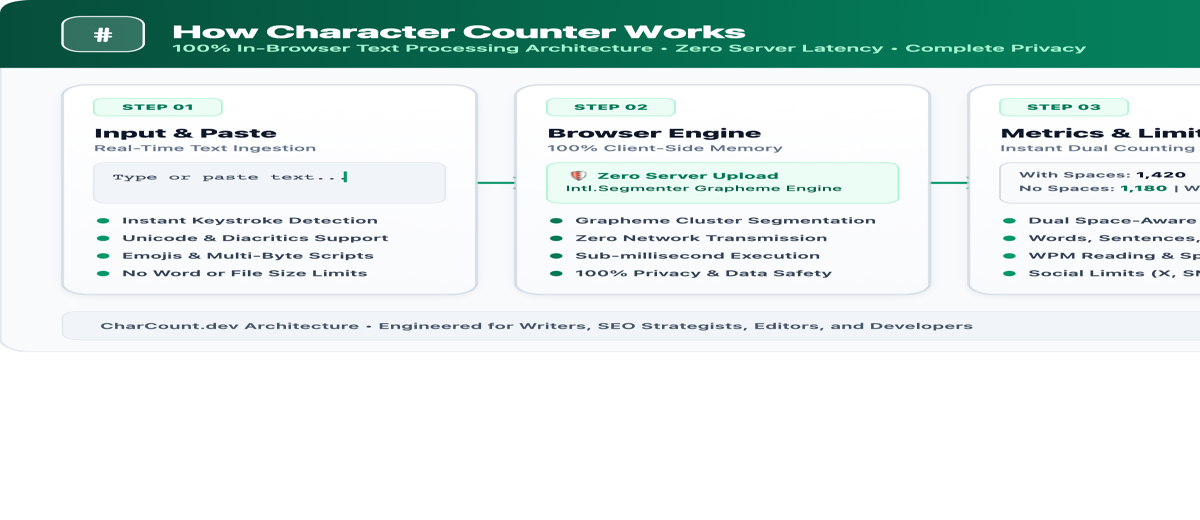
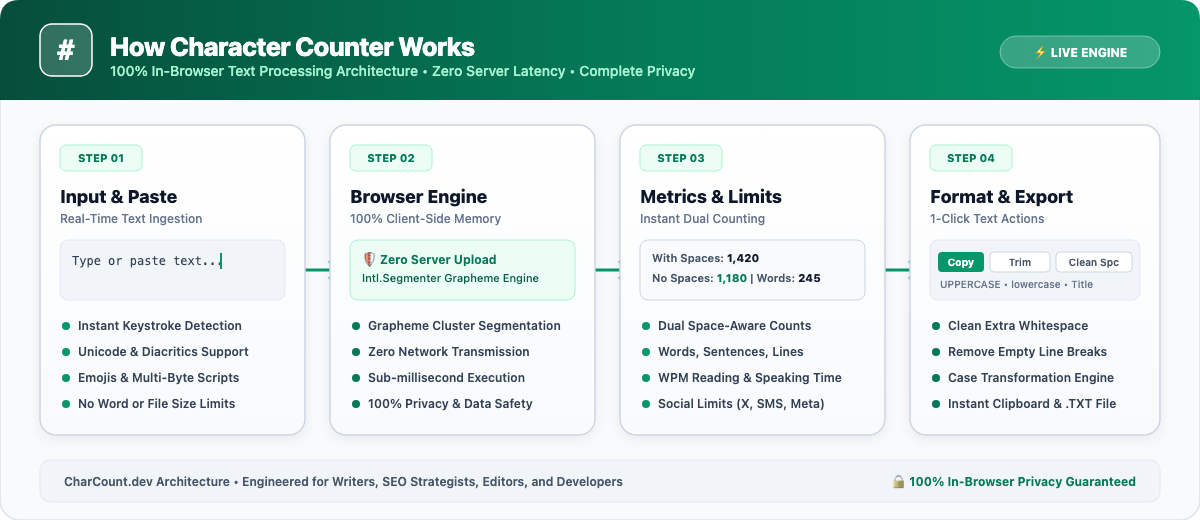
fix(images): eliminate blur, stretching, and mobile overflow on How It Works infographic

diff --git a/app/page.tsx b/app/page.tsx
@@ -112,22 +112,28 @@ export default function HomePage() {
         </div>
 
         {/* Infographic Graphic with Responsive Picture & Alt Optimization */}
-        <figure className="overflow-hidden rounded-xl border border-slate-200 bg-slate-900/5 shadow-2xs">
-          <picture>
-            <source
-              srcSet="/images/how-character-counter-works.webp"
-              type="image/webp"
-            />
-            <img
-              src="/images/how-character-counter-works.png"
-              alt="Character Counter - How it works step-by-step text analysis process showing live character count with spaces, without spaces, word count, and platform limit meters"
-              width={1200}
-              height={520}
-              loading="eager"
-              decoding="async"
-              className="w-full h-auto object-cover select-none"
-            />
-          </picture>
+        <figure className="w-full max-w-full overflow-hidden rounded-xl border border-slate-200 bg-slate-50/50 shadow-2xs">
+          <div className="w-full overflow-x-auto scrollbar-thin">
+            <picture className="block w-full">
+              <source
+                srcSet="/images/how-character-counter-works.svg"
+                type="image/svg+xml"
+              />
+              <source
+                srcSet="/images/how-character-counter-works.webp"
+                type="image/webp"
+              />
+              <img
+                src="/images/how-character-counter-works.png"
+                alt="Character Counter - How it works step-by-step text analysis process showing live character count with spaces, without spaces, word count, and platform limit meters"
+                width={1200}
+                height={520}
+                loading="eager"
+                decoding="async"
+                className="block w-full max-w-full h-auto object-contain select-none"
+              />
+            </picture>
+          </div>
           <figcaption className="bg-slate-50 px-4 py-3 text-xs text-slate-600 border-t border-slate-200 flex flex-col sm:flex-row sm:items-center sm:justify-between gap-2">
             <span>
               <strong>Figure 1:</strong> Step-by-step character counter workflow &mdash; input, local regex/grapheme engine, dual-metric tally, and one-click export.
